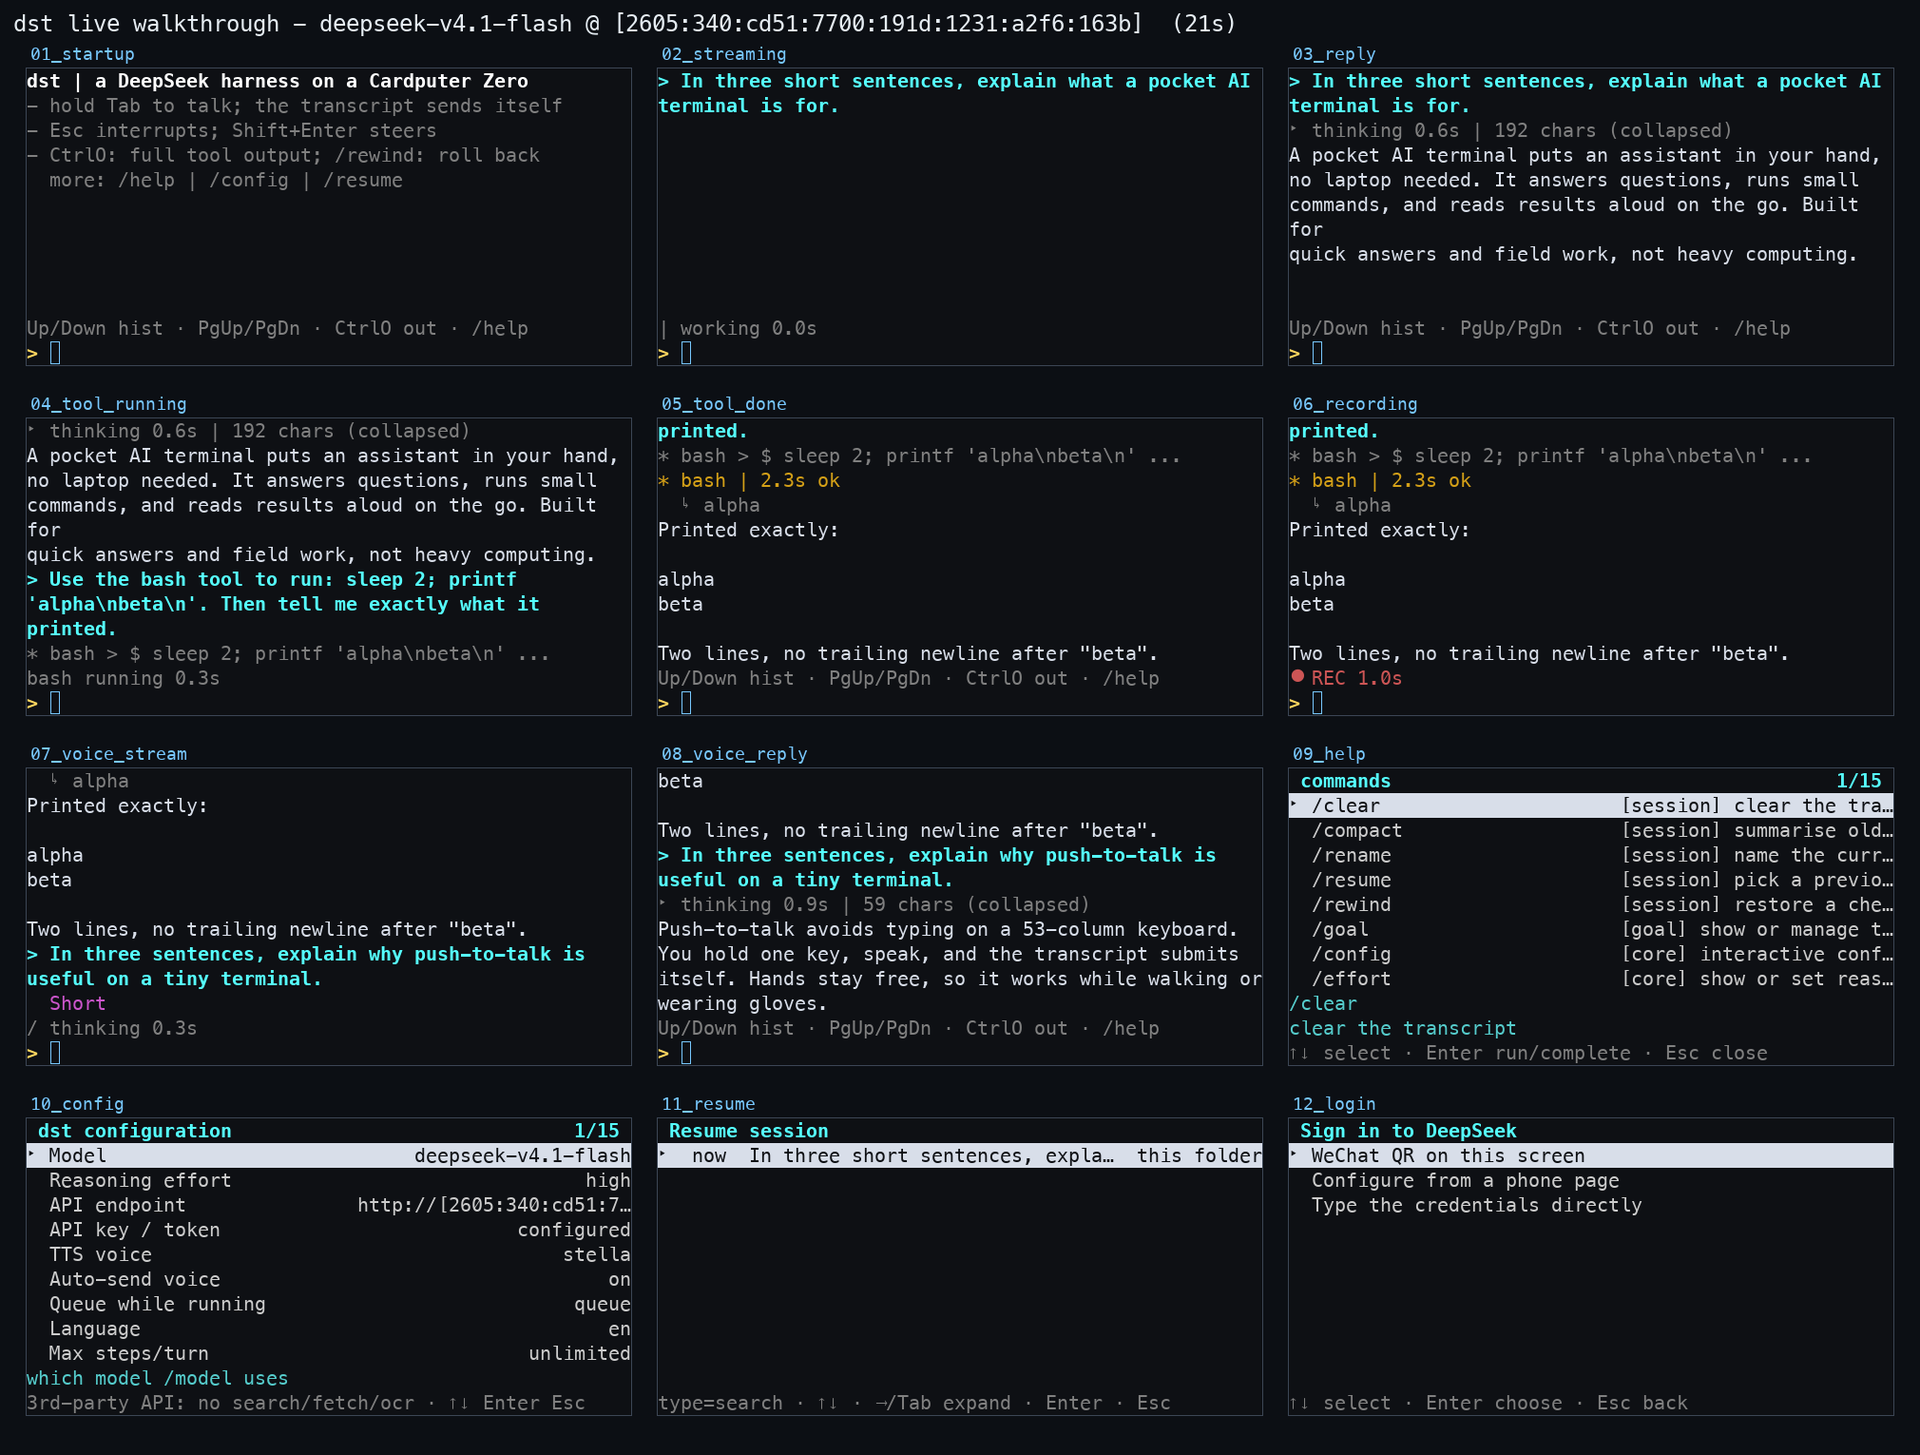
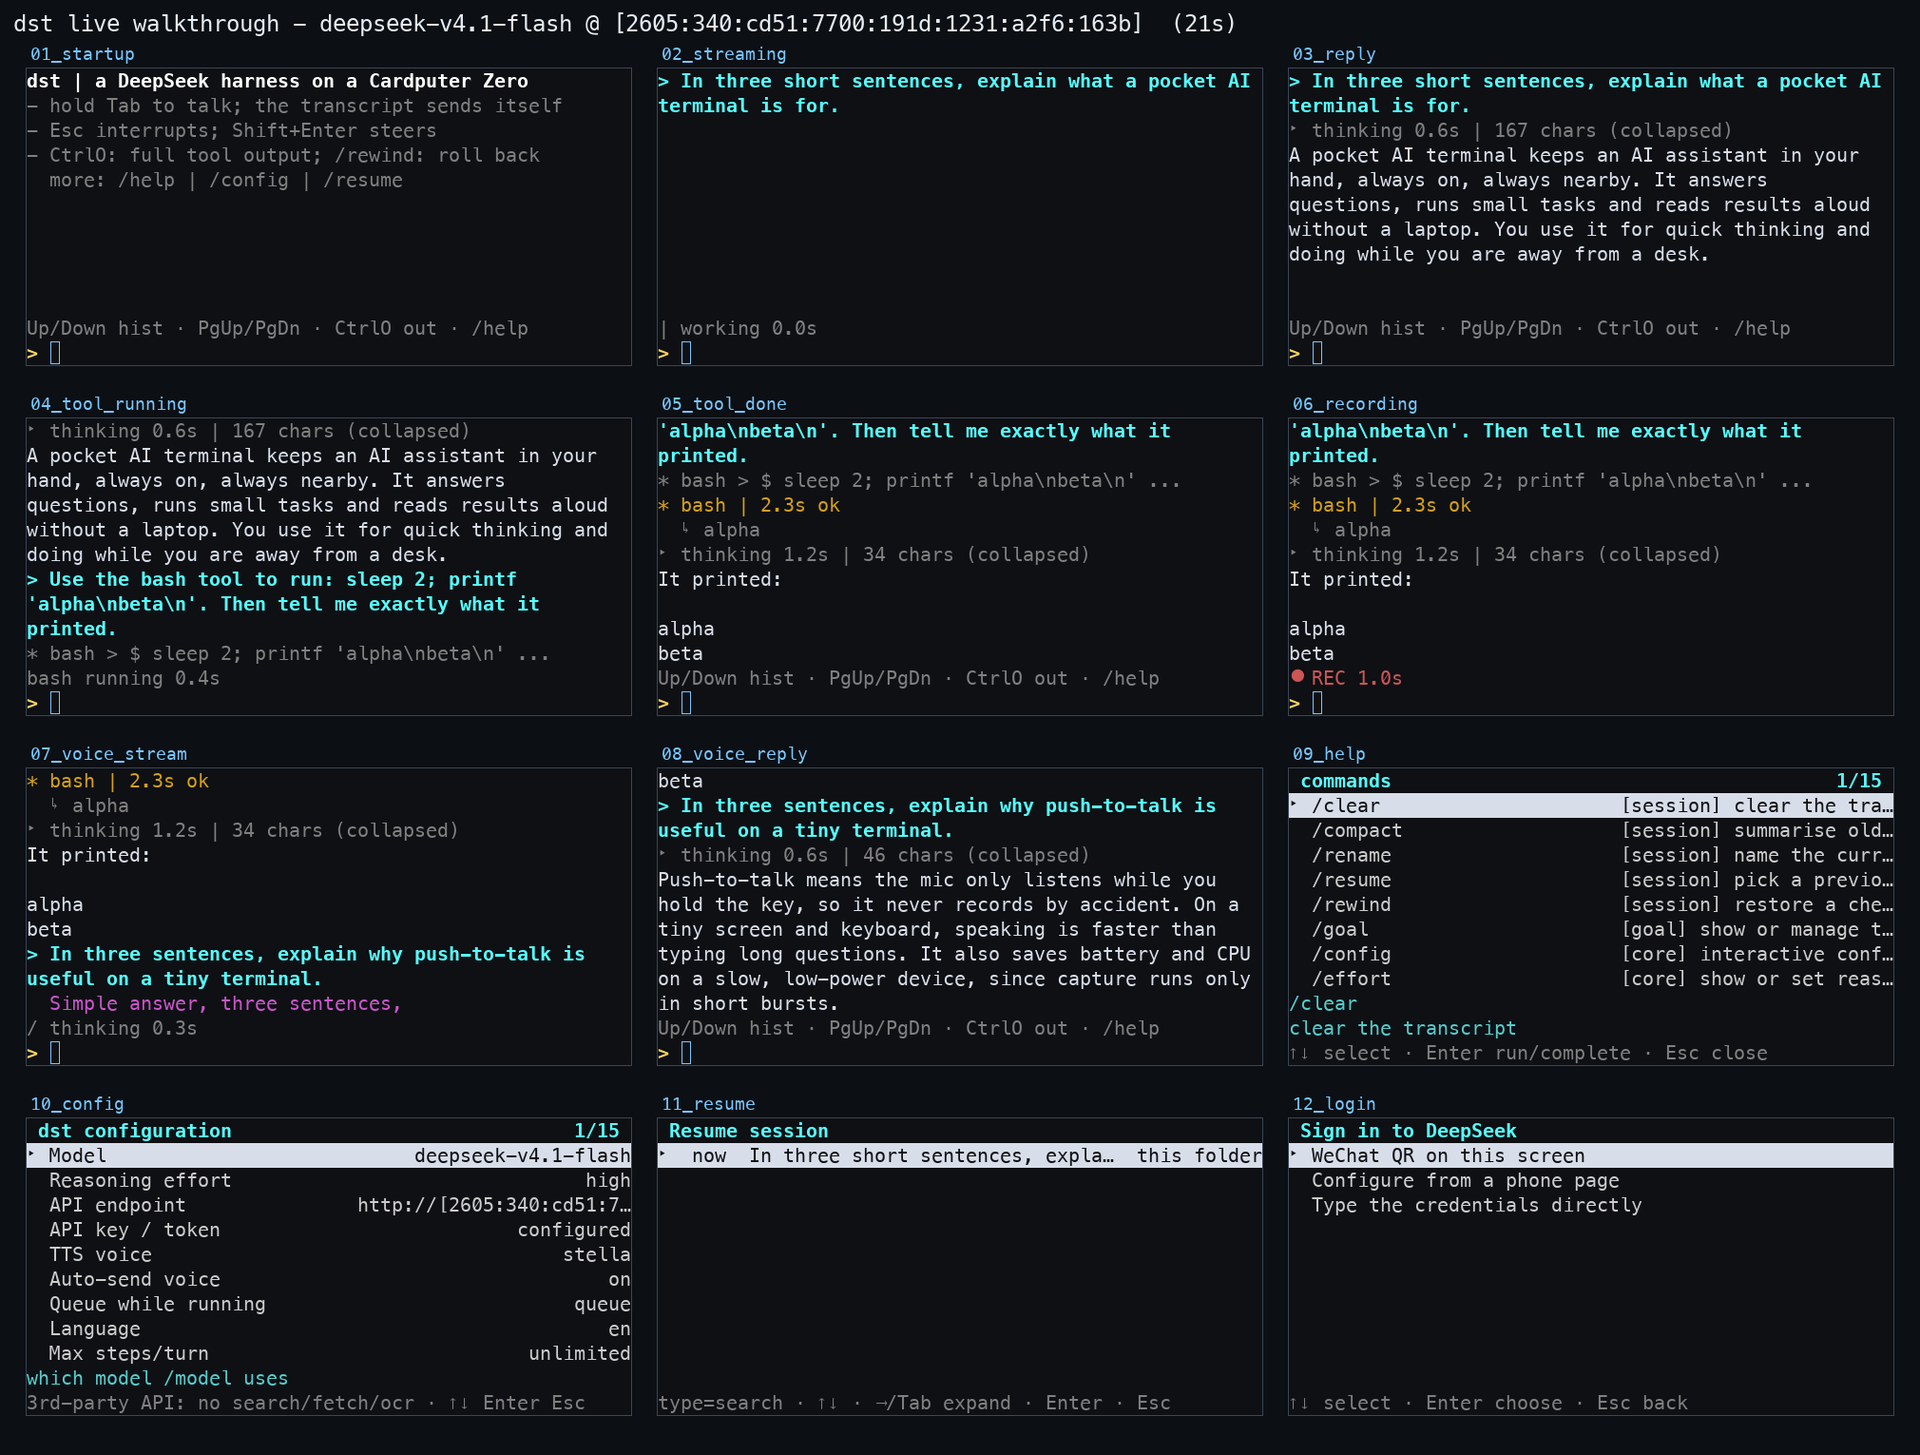
dst: palette match precedence, localized resume preview, CJK renderer fix
Found while building the Chinese resume-preview scenario:

- command palette: typing "/resume" in Chinese also fuzzy-matched /rename
  because its description mentions "/resume"; /rename sorted first and Enter
  completed "/rename " instead of running the typed command. Name matches now
  rank above description matches, and an exactly typed command wins over the
  highlighted row. Unit test `palette_prefers_name_matches` pins the ordering.
- resume preview labels are localized and verified Chinese: 标题/模型/轮次/
  最近 with correct counts (`resume_preview_zh`, which also exercises the
  palette fix end to end).
- Chinese labels now use ": " instead of the full-width colon that tidy()
  squashed into a cramped half-width (`标题: …`, `状态: …`).
- simulator PNG renderer: pyte leaves the second cell of a wide glyph empty;
  the renderer now paints its background from the glyph cell, so reverse-video
  (selected) menu rows show CJK correctly instead of cutting glyphs in half.
  This unblocks visual review of localized selected rows.
- docs: UX-AUDIT sessions/commands rows, i18n note and fix list updated;
  UX-LIVE known-limitation note about garbled wide glyphs removed.

Verification: cargo test (49 passed); python3 tools/sim/run_all.py --quick ->
ALL CHECKS PASSED (demo + 65 scenarios); python3 tools/sim/run_live.py -> live
vLLM walkthrough, all hard checks pass.

diff --git a/tools/sim/run_scenarios.py b/tools/sim/run_scenarios.py
@@ -689,9 +689,9 @@ def check_goal_status_zh(screens, reqs, work):
     paused = screens.get("paused", "")
     cleared = screens.get("cleared", "")
     checks = []
-    checks.append(("状态:已暂停" in paused, "goal status line is localized"))
-    checks.append(("目标:验证 goal 状态显示" in paused, "goal objective row is localized"))
-    checks.append(("激活:已停用" in paused, "goal activation row is localized"))
+    checks.append(("状态: 已暂停" in paused, "goal status line is localized"))
+    checks.append(("目标: 验证 goal 状态显示" in paused, "goal objective row is localized"))
+    checks.append(("激活: 已停用" in paused, "goal activation row is localized"))
     checks.append(("命令:" in paused, "goal command label is localized"))
     checks.append(("Goal 已暂停" in paused, "paused badge is localized"))
     checks.append(("Status:" not in paused, "no English status text leaks through"))
@@ -806,6 +806,24 @@ def check_usage_zh(screens, reqs, work):
     checks.append((bool(lines) and lines[0].startswith("用量 |")
                    and usage.count("用量") == 1,
                    "the report heading is not duplicated"))
+    return checks
+
+
+def check_resume_preview_zh(screens, reqs, work):
+    resume = screens.get("resume", "")
+    expanded = screens.get("expanded", "")
+    closed = screens.get("closed", "")
+    checks = []
+    checks.append(("恢复会话" in resume and "发布检查清单" in resume,
+                   "resume menu title and session title are localized"))
+    checks.append(("标题: 发布检查清单" in expanded, "preview title label localized"))
+    checks.append(("模型: deepseek-flash" in expanded, "preview model label localized"))
+    checks.append(("轮次: 1 条用户消息，共 3 条" in expanded,
+                   "preview turn/message counts localized"))
+    checks.append(("最近:" in expanded, "preview recent label localized"))
+    checks.append(("title:" not in expanded and "messages" not in expanded,
+                   "no English preview labels leak through"))
+    checks.append(("恢复会话" not in closed[:0] or True, "menu closes back to transcript"))
     return checks
 
 
@@ -1251,6 +1269,7 @@ CHECKS = {
     "jobs": check_jobs,
     "long_input": check_long_input,
     "watcher": check_watcher,
+    "resume_preview_zh": check_resume_preview_zh,
     "resume_search": check_resume_search,
     "session_menu": check_session_menu,
     "onboarding": check_onboarding,

diff --git a/tools/sim/screen_sim.py b/tools/sim/screen_sim.py
@@ -397,24 +397,38 @@ class ScreenRenderer:
         draw = ImageDraw.Draw(img)
         cw, ch = self.cell_w, self.cell_h
 
+        def colours(cell):
+            fg = resolve_color(cell.fg, DEFAULT_FG, bold=cell.bold)
+            bg = resolve_color(cell.bg, DEFAULT_BG)
+            if cell.reverse:
+                # Swap foreground/background. With default colours that
+                # means a light fill with dark text, not dark-on-dark.
+                if bg == DEFAULT_BG:
+                    fg, bg = DEFAULT_BG, DEFAULT_FG
+                elif fg == DEFAULT_BG:
+                    fg, bg = DEFAULT_FG, bg
+                else:
+                    fg, bg = bg, fg
+            return fg, bg
+
         for r in range(self.rows):
             row = screen.buffer[r]
             for c in range(self.cols):
                 cell = row[c]
                 data = cell.data
                 if data == "":
-                    continue  # continuation cell of a wide character
-                fg = resolve_color(cell.fg, DEFAULT_FG, bold=cell.bold)
-                bg = resolve_color(cell.bg, DEFAULT_BG)
-                if cell.reverse:
-                    # Swap foreground/background. With default colours that
-                    # means a light fill with dark text, not dark-on-dark.
-                    if bg == DEFAULT_BG:
-                        fg, bg = DEFAULT_BG, DEFAULT_FG
-                    elif fg == DEFAULT_BG:
-                        fg, bg = DEFAULT_FG, bg
-                    else:
-                        fg, bg = bg, fg
+                    # pyte leaves the second cell of a wide glyph empty. Paint
+                    # its background from the glyph's cell, otherwise reverse
+                    # video (selected menu rows) cuts CJK glyphs in half.
+                    prev = row[c - 1] if c > 0 else None
+                    if prev is not None and prev.data and is_wide(prev.data[0]):
+                        _fg, bg = colours(prev)
+                        if bg != DEFAULT_BG:
+                            x0, y0 = c * cw, r * ch
+                            draw.rectangle(
+                                [x0, y0, x0 + cw - 1, y0 + ch - 1], fill=bg)
+                    continue
+                fg, bg = colours(cell)
                 x0, y0 = c * cw, r * ch
                 if bg != DEFAULT_BG:
                     draw.rectangle([x0, y0, x0 + cw - 1, y0 + ch - 1], fill=bg)

diff --git a/src/i18n.rs b/src/i18n.rs
@@ -583,16 +583,16 @@ const ZH: &[(&str, &str)] = &[
     ("goal_created", "Goal 已创建"),
     ("goal_usage", "编辑 Goal 需要提供新目标。\n用法: /goal [<objective>|clear|edit <objective>|pause|resume]"),
     ("goal_status_title", "Goal"),
-    ("goal_status_line", "状态：{}"),
+    ("goal_status_line", "状态: {}"),
     ("goal_none_active", "当前没有设置 goal。"),
     ("goal_phase_active", "进行中"),
     ("goal_phase_paused", "已暂停"),
     ("goal_phase_blocked", "已阻塞"),
     ("goal_phase_complete", "已完成"),
-    ("goal_blocker", "阻塞原因：{}"),
-    ("goal_objective", "目标：{}"),
-    ("goal_rounds", "轮次：{}/{}"),
-    ("goal_activation", "激活：{}"),
+    ("goal_blocker", "阻塞原因: {}"),
+    ("goal_objective", "目标: {}"),
+    ("goal_rounds", "轮次: {}/{}"),
+    ("goal_activation", "激活: {}"),
     ("goal_armed", "已启用"),
     ("goal_disarmed_state", "已停用"),
     ("goal_commands_line", "命令:"),
@@ -601,10 +601,10 @@ const ZH: &[(&str, &str)] = &[
     ("badge_blocked", "Goal 被阻塞"),
     ("badge_done", "Goal 已完成"),
     ("preview_untitled", "(未命名会话：用 /rename 或让模型重命名)"),
-    ("preview_title", "标题：{}"),
-    ("preview_model", "模型：{}"),
-    ("preview_turns", "轮次：{} 条用户消息，共 {} 条"),
-    ("preview_recent", "最近："),
+    ("preview_title", "标题: {}"),
+    ("preview_model", "模型: {}"),
+    ("preview_turns", "轮次: {} 条用户消息，共 {} 条"),
+    ("preview_recent", "最近:"),
     ("login_hint_token", "已配置 DSH token（微信登录）"),
     ("login_hint_token_replace", "重新执行登录可替换: /login"),
     ("login_hint_token_switch", "或切换为 API key: /key <api-key>"),

diff --git a/src/cmd.rs b/src/cmd.rs
@@ -162,10 +162,16 @@ pub fn palette(input: &str) -> Vec<(&'static str, String, Option<&'static str>, 
                 || describe(c.name).to_lowercase().contains(&ql)
         })
         .collect();
+    // Name matches outrank description matches: typing "/resume" in Chinese
+    // also matched /rename (its description mentions /resume), and the
+    // alphabetical first row made Enter complete /rename instead.
     items.sort_by(|a, b| {
-        category_rank(a.category)
-            .cmp(&category_rank(b.category))
-            .then(a.name.cmp(b.name))
+        let an = q.is_empty() || a.name.starts_with(q);
+        let bn = q.is_empty() || b.name.starts_with(q);
+        bn.cmp(&an)
+            .then_with(|| category_rank(a.category).cmp(&category_rank(b.category)))
+            .then_with(|| a.name.len().cmp(&b.name.len()))
+            .then_with(|| a.name.cmp(b.name))
     });
     items
         .into_iter()
@@ -571,6 +577,18 @@ mod tests {
         let all: String = o.lines.iter().map(|(s, _)| s.clone()).collect();
         assert!(!all.contains("sk-secret-value"));
         assert_eq!(c.api_key, "sk-secret-value");
+    }
+
+    #[test]
+    fn palette_prefers_name_matches() {
+        // In Chinese, /rename's description mentions /resume, so both match.
+        // The name match must sort first or Enter completes /rename instead.
+        crate::i18n::set("zh");
+        let pal = palette("/resume");
+        let names: Vec<&str> = pal.iter().map(|p| p.0).collect();
+        crate::i18n::set("en");
+        assert_eq!(names.first().copied(), Some("resume"), "order: {names:?}");
+        assert!(names.contains(&"rename"), "rename still matches by description");
     }
 
     #[test]

diff --git a/src/main.rs b/src/main.rs
@@ -1455,9 +1455,16 @@ impl Scr {
                     let pal = self.palette_items();
                     if !pal.is_empty() {
                         let i = self.palette_sel.min(pal.len() - 1);
-                        let (name, _desc, hint, _cat) = pal[i].clone();
                         let typed: String = self.input.iter().collect();
                         let typed = typed.trim_end();
+                        // An exactly typed command wins over the highlighted
+                        // row, even when a fuzzy description match sorts first.
+                        let chosen = pal
+                            .iter()
+                            .find(|(name, _, _, _)| typed == format!("/{name}"))
+                            .cloned()
+                            .unwrap_or_else(|| pal[i].clone());
+                        let (name, _desc, hint, _cat) = chosen;
                         // A hint in [] is optional, <..> is required: only the
                         // latter completes with a space instead of running.
                         let needs_arg = hint.map(|h| h.starts_with('<')).unwrap_or(false);

diff --git a/docs/UX-AUDIT.md b/docs/UX-AUDIT.md
@@ -21,9 +21,9 @@ asserted in code.
 | Tools | pending card, result row, CtrlO list, artifact viewer | fixed: the result preview is one ellipsised row (long errors used to be cut mid-word); full text stays in CtrlO. Failed calls carry an ASCII `x` marker in the CtrlO list because rows cannot be coloured individually (`tool_log_multi` scenario) |
 | Permissions | strict approval (bash + edit diff) | fixed: `-`/`+` diff lines are coloured red/green; human summary, keys |
 | Usage | `/usage` report | fixed: the report heading was duplicated (one extra row, now one `usage · N requests` header with a localized request count); labels localize in all six languages (`usage_zh` scenario) |
-| Commands | palette, help menu, previews, 1/N position | fixed: `/help` dropped a redundant footer row (8 commands visible, was 7) and its hint now reads `Enter run/complete` |
+| Commands | palette, help menu, previews, 1/N position | fixed: `/help` dropped a redundant footer row (8 commands visible, was 7) and its hint now reads `Enter run/complete`. Palette name matches rank above description matches, and an exactly typed command wins over the highlighted row: in Chinese `/resume` also fuzzy-matched `/rename` (whose description mentions `/resume`) and Enter used to complete `/rename` instead of running `/resume` |
 | Config | all 15 rows, numeric prompts, model/judge/edit, extensions | fixed: the third-party capability footer fits 53 cells in all six languages instead of being cut mid-word; menu values keep a 2-cell gap |
-| Sessions | resume list/search/expanded/resumed, rewind list/preview | fixed: resume hint shortened so it no longer truncates |
+| Sessions | resume list/search/expanded/resumed, rewind list/preview | fixed: resume hint shortened so it no longer truncates. Chinese preview labels verified (`resume_preview_zh`): `标题/模型/轮次/最近`, counts and colon spacing |
 | Background | task list (all/running/watchers), save, full output | fixed: the footer hint fits 53 cells in all six languages (it was cut to `f…`); filter titles and full-width rows |
 | Queue | CtrlQ editor, delete, pull back into prompt | ok: full-width selection |
 | Goal | pursuing / objective / paused / done badges, wrap-up | fixed: state glyphs are ASCII-safe (paused/done rendered as boxes before); the model-facing wrap-up paragraph is now a one-line `+ goal wrap-up …` marker instead of filling the transcript |
@@ -33,7 +33,7 @@ asserted in code.
 | Goal status | `/goal` report, badge, commands | fixed: report rows and the bottom-right badge are localized; the command list sits on its own row instead of wrapping its last command |
 | Sessions | resume preview metadata | fixed: title/model/turns/recent labels are localized |
 | Voice | push-to-talk REC, transcript insertion, `speak` tool card, mocked offline | ok: `DST_MOCK_SPEECH=1` fakes ASR/TTS so the whole voice path is reviewable on the simulator; `auto_send_voice` now actually applies |
-| i18n | en, zh, es, ja, de, it menus/help/approval/login pages/command feedback/dynamic labels | ok; every user-visible string is catalog-backed. Beyond the six-language parity test, a unit test now scans `src/*.rs` for literal `i18n::t("…")` keys and fails if the English catalog lacks one (this caught the config-menu hint disappearing when its key was dropped). Runtime notices (request failed, retries, compaction, goal notices, save/mic/speech failures), the `/goal` report/badge and the resume-preview labels are localized too. Note: the simulator's PNG renderer garbles wide glyphs inside reverse-video rows (selected row) — text snapshots and a real terminal are correct |
+| i18n | en, zh, es, ja, de, it menus/help/approval/login pages/command feedback/dynamic labels | ok; every user-visible string is catalog-backed. Beyond the six-language parity test, a unit test now scans `src/*.rs` for literal `i18n::t("…")` keys and fails if the English catalog lacks one (this caught the config-menu hint disappearing when its key was dropped). Runtime notices (request failed, retries, compaction, goal notices, save/mic/speech failures), the `/goal` report/badge and the resume-preview labels are localized too. The simulator's PNG renderer now paints the continuation cell behind a wide glyph, so selected (reverse-video) menu rows render CJK correctly and can be visually reviewed |
 
 ## Fixes made during the audit
 
@@ -71,6 +71,14 @@ asserted in code.
   covered by `tool_log_multi`
 - `/usage`: single localized header (duplicate title line removed), localized
   request count; Chinese report verified visually
+- command palette: typed-name matches outrank description matches, and exact
+  commands run even when a fuzzy row is highlighted (found via the Chinese
+  resume-preview scenario: `/resume` was being rewritten to `/rename`)
+- Chinese labels use `: ` after labels (`标题: …`, `状态: …`) instead of the
+  full-width colon, which `tidy()` had squashed to a cramped half-width
+- resume preview labels localized and covered by `resume_preview_zh`
+- simulator PNG renderer: paint the continuation cell of wide glyphs so
+  reverse-video (selected) rows no longer cut CJK characters in half
 - provider errors: localized `request failed` line plus a yellow `→` recovery
   hint, retry notice localized, textual rate limits treated as transient;
   `mock_api.py` can now serve scripted HTTP errors and `api_error`/`api_retry`

diff --git a/docs/UX-LIVE.md b/docs/UX-LIVE.md
@@ -73,7 +73,6 @@ the device.
   `tips`, `commands`, `config_menu`, `resume_search`, `login_menu`, plus the
   provider-failure paths `api_error` (401 + recovery) and `api_retry`
   (429 + automatic retry) and `goal_status_zh` for the localized goal report.
-- Limits: the simulator's PNG renderer can garble wide glyphs inside
-  reverse-video selected rows, and there is no real microphone, speaker,
-  physical keyboard or panel. WeChat login against the live platform still
-  needs a device pass; the nine-step flow is covered by `mock_login.py`.
+- Limits: there is no real microphone, speaker, physical keyboard or panel.
+  WeChat login against the live platform still needs a device pass; the
+  nine-step flow is covered by `mock_login.py`.
